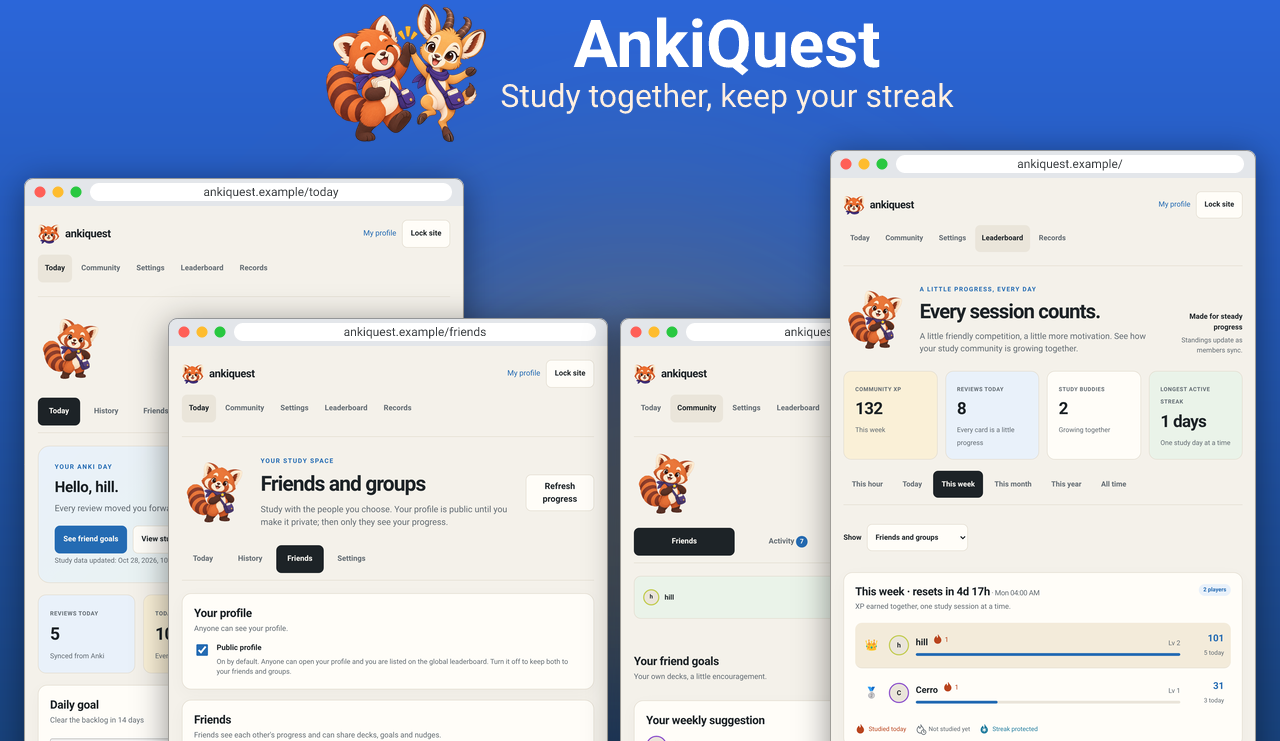
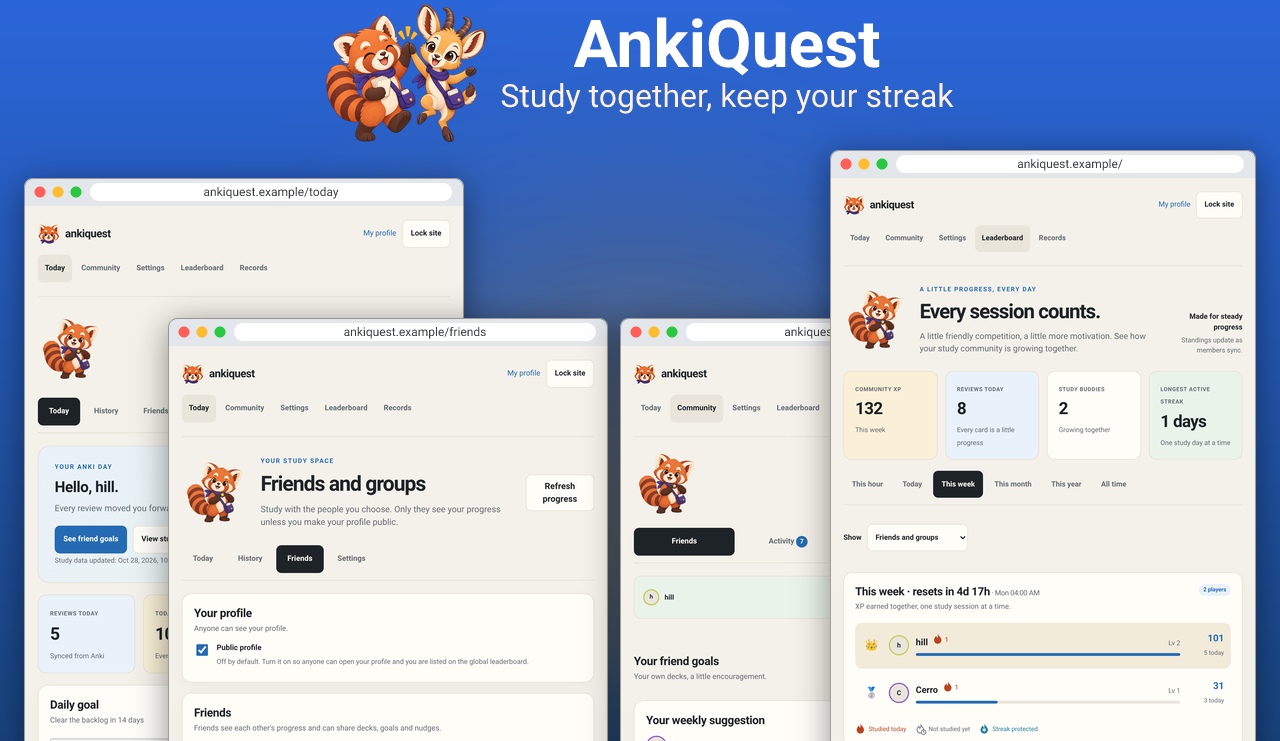
fix(social): match the profile copy to private by default
The friends page still said profiles are public until made private,
and the switch's help said "Turn it off" while it is off by default.
Both now describe the new default, in all five languages.

The friends screenshot and the README banner, drawn from it, are
redrawn, which the screenshots check needed.

Assisted-by: Claude Opus 5.5

Changed region(s): [[0.125, 0.8691, 0.4375, 1.0], [0.2188, 0.6829, 0.4062, 0.7139]]

diff --git a/web/personal.ts b/web/personal.ts
@@ -78,7 +78,7 @@ import {failure, refused, request as call, send} from "./http";
       today:tr("Your progress, one day at a time."),
       history:tr("Every day you showed up adds to your story."),
       settings:tr("Choose how AnkiQuest encourages you and what you share."),
-      friends:tr("Study with the people you choose. Your profile is public until you make it private; then only they see your progress."),
+      friends:tr("Study with the people you choose. Only they see your progress unless you make your profile public."),
       join:tr("You were invited to study together."),
     };
     reminders = [
@@ -478,7 +478,7 @@ import {failure, refused, request as call, send} from "./http";
     const mute = (person: Person) => person.user === me ? ""
       : muted.has(person.user) ? action(tr("Unmute"),{action:"unmute",user:person.user})
       : action(tr("Mute"),{action:"mute",user:person.user},`data-confirm="${esc(tr`Mute ${person.display}? You won't hear from them. They are not told.`)}"`);
-    const visibility = html`<article class="card"><div class="card-head"><div><h2>${tr("Your profile")}</h2><p>${social.public ? tr("Anyone can see your profile.") : tr("Only your friends and groups can see your profile.")}</p></div></div>${check("",tr("Public profile"),social.public,tr("Off by default. Anyone can open your profile and you are listed on the global leaderboard. Turn it off to keep both to your friends and groups."),"data-social-public")}</article>`;
+    const visibility = html`<article class="card"><div class="card-head"><div><h2>${tr("Your profile")}</h2><p>${social.public ? tr("Anyone can see your profile.") : tr("Only your friends and groups can see your profile.")}</p></div></div>${check("",tr("Public profile"),social.public,tr("Off by default. Turn it on so anyone can open your profile and you are listed on the global leaderboard."),"data-social-public")}</article>`;
     const requests = social.incoming.length ? html`<h3>${tr("Friend requests")}</h3><div class="stack">${social.incoming.map(person=>personRow(person,action(tr("Accept"),{action:"befriend",user:person.user},'class="primary"')+action(tr("Decline"),{action:"unfriend",user:person.user}))).join("")}</div>` : "";
     const waiting = social.outgoing.length ? html`<h3>${tr("Waiting for an answer")}</h3><div class="stack">${social.outgoing.map(person=>personRow(person,action(tr("Cancel request"),{action:"unfriend",user:person.user}))).join("")}</div>` : "";
     const friendList = social.friends.length
